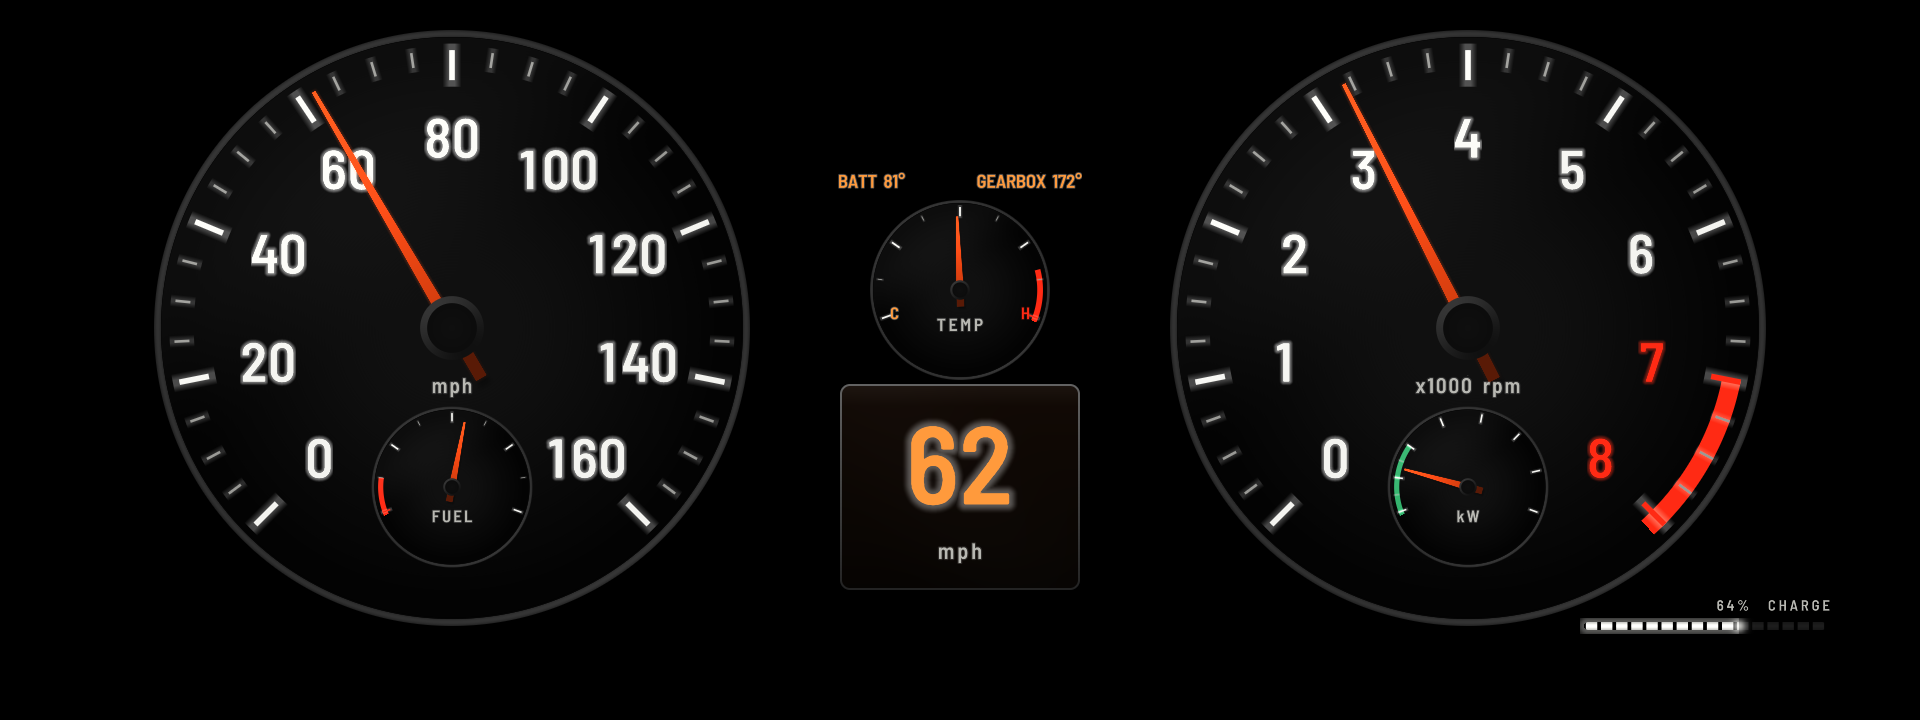
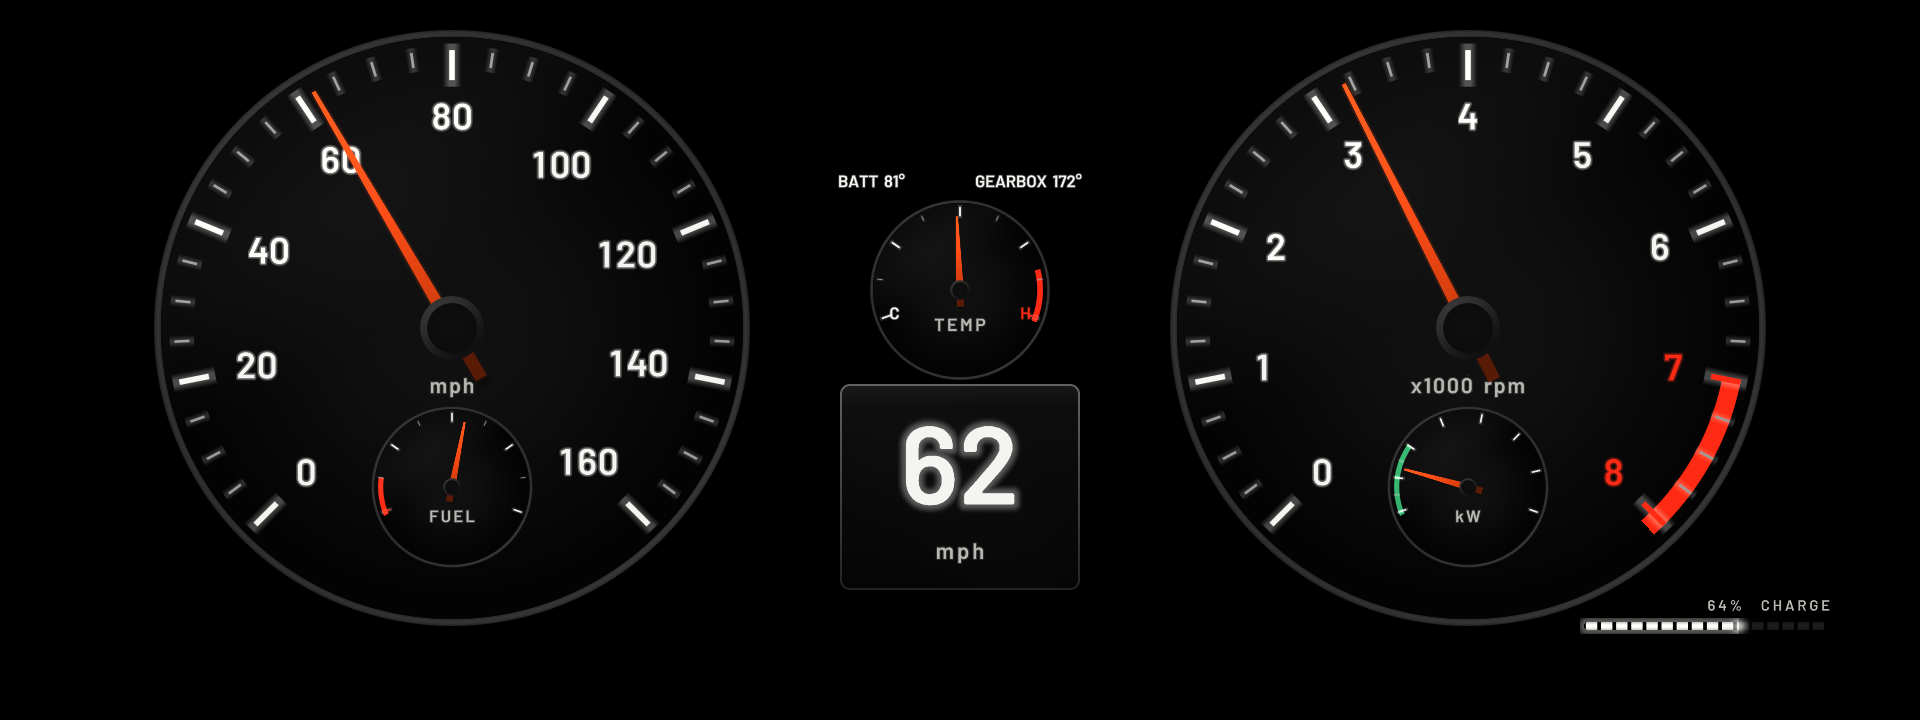
Layouts 0.56.0, Centre 0.14.14: 90's by day and night, blue needles in Efficient
- 90's: with Colours on Auto it follows the car's light sensor, not the drive mode: by day its white look
  (every word in it white too), by night the orange one; a colour set stays as set.
- data.js: day or night from Vehicle.statusDayNightChangeOver (name or number; unchanged and invalid keep
  what was), for an app that asks (opts.dayNight: Cluster Layouts).
- 20's and ID6 M: the needles in Efficient colours in its blue.
- Sport and Sport+ stay one look (themes.js lookNow).
- tools/test_daynight.js, in the workflow's list.

Claude-Session: https://claude.ai/code/session_01QXViLhVqF9rtKtBBVyCzXw

diff --git a/tools/test_daynight.js b/tools/test_daynight.js
@@ -1,0 +1,61 @@
+'use strict';
+/**
+ * test_daynight.js - day and night from the car's light sensor (data.js: Vehicle.statusDayNightChangeOver, by name or
+ * number; "unchanged" and "invalid" keep what was) and 90's, lit by them (layout_retro.js dayNight: day its white
+ * look, every word in it white; night its orange one).
+ *   node tools/test_daynight.js
+ */
+const assert = require('assert');
+const fs = require('fs');
+const os = require('os');
+const path = require('path');
+process.env.CLUSTER_INFO_DIR = fs.mkdtempSync(path.join(os.tmpdir(), 'daynight-'));
+require('./scene');   // maps ./kit/ to the kit's runtime
+
+let ok = 0;
+const check = (name, fn) => { fn(); ok++; console.log('ok   ' + name); };
+
+const spec = JSON.parse(fs.readFileSync(path.join(__dirname, '..', 'apps', 'akakingj_cluster_layouts', 'app.json'), 'utf8'));
+const handlers = {};
+const ctx = {
+    log: { info() {}, warn() {}, debug() {} }, spec,
+    settings: { get: () => undefined },
+    signals: { watch: (i, n, h) => { Object.assign(handlers, h); return Promise.resolve({}); }, proxy: () => Promise.reject(new Error('no link (test)')) },
+};
+const { startData } = require(path.join(__dirname, '..', 'shared', 'data'));
+const D = startData(ctx, { shown: () => true, dayNight: true });
+try {
+    check('no word from the light sensor yet: neither', () => assert.strictEqual(D.data().night, undefined));
+    check('NACHT: night; TAG: day', () => {
+        handlers.statusDayNightChangeOver({ dayNightChangeOver: 'NACHT' });
+        assert.strictEqual(D.data().night, true);
+        handlers.statusDayNightChangeOver({ dayNightChangeOver: 'TAG' });
+        assert.strictEqual(D.data().night, false);
+    });
+    check('as numbers too (2 night, 1 day); unchanged (0) and invalid (3) keep what was', () => {
+        handlers.statusDayNightChangeOver({ dayNightChangeOver: 2 });
+        assert.strictEqual(D.data().night, true);
+        handlers.statusDayNightChangeOver({ dayNightChangeOver: 0 });
+        handlers.statusDayNightChangeOver({ dayNightChangeOver: 3 });
+        handlers.statusDayNightChangeOver({ dayNightChangeOver: 'KEINE_AENDERUNG' });
+        assert.strictEqual(D.data().night, true);
+        handlers.statusDayNightChangeOver({ dayNightChangeOver: 1 });
+        assert.strictEqual(D.data().night, false);
+    });
+} finally { if (D.stop) D.stop(); }
+
+check("90's is lit by day and night: day white, its words too; night orange", () => {
+    const R = require(path.join(__dirname, '..', 'apps', 'akakingj_cluster_layouts', 'layout_retro'));
+    assert.strictEqual(R.dayNight, true);
+    const day = R.palette('efficient'), night = R.palette('comfort');
+    ['tick', 'num', 'text'].forEach((k) => assert.strictEqual(day[k], '#f4f4f0', 'day ' + k));
+    assert.strictEqual(night.text, '#ff9a3c');
+});
+check("20's and ID6 M in Efficient: the needles in its blue", () => {
+    const A = require(path.join(__dirname, '..', 'apps', 'akakingj_cluster_layouts', 'layout_analog_sport'));
+    const I = require(path.join(__dirname, '..', 'apps', 'akakingj_cluster_layouts', 'layout_id6m'));
+    assert.strictEqual(A.palette('efficient').needle, A.palette('efficient').accent);
+    assert.strictEqual(I.palette('efficient').needle, I.palette('efficient').accent);
+});
+console.log(ok + ' passed');
+process.exit(0);

diff --git a/apps/akakingj_cluster_centre/data.js b/apps/akakingj_cluster_centre/data.js
@@ -394,13 +394,21 @@ function startData(ctx, opts) {
         statusTyreTemperature: tyreRead('tyreT', tyreC, 'Temperature'),
     }, 'tyres', { pollMs: 10000 });
     // the car's pressure unit: the tyre pressures and the sport display's boost come in it (every app: the boost)
-    watch('de.bmw.infotainment.vehicle.Vehicle', {
+    watch('de.bmw.infotainment.vehicle.Vehicle', Object.assign({
         statusNewCurrentUnitsStatusExt: (v) => {
             const u = one(v, 'unitOfMeasurementAirPressure'), n = u && typeof u === 'object' ? (u.name || u.value) : u;
             const p = PRESS_UNITS[n] || (/BAR|KPA|PSI/.test(String(n)) ? String(n).match(/BAR|KPA|PSI/)[0] : null);
             if (p && p !== carPress) { carPress = p; log.info('car pressure unit: ' + p); }
         },
-    }, 'units', { pollMs: 60000 });
+    }, opts && opts.dayNight ? {
+        // day or night (the car's light sensor: 1 day, 2 night, 0 unchanged, 3 invalid; by name or number), for an app
+        // that asks (opts.dayNight: Cluster Layouts, 90's colours)
+        statusDayNightChangeOver: (v) => {
+            const c = one(v, 'dayNightChangeOver'), n = c && typeof c === 'object' ? (c.name || c.value) : c;
+            const k = typeof n === 'string' ? ({ TAG: 1, NACHT: 2 })[n] : n;
+            if (k === 1 || k === 2) x.night = k === 2;
+        },
+    } : {}), 'units' + (opts && opts.dayNight ? ', day / night' : ''), { pollMs: 60000 });
     watch('de.bmw.infotainment.KombiIF', {
         statusRangeTankStatus: (v) => { fes('statusRangeTankStatus')(v); pickRanges(v); odometer(v); },
         // the trip computer (0.45.0): trip 1's average fuel economy, tenths, in the unit the car's trip computer
@@ -640,7 +648,7 @@ function startData(ctx, opts) {
                 if (isNum(p.kw) && isNum(p.kwAt) && p.kwAt !== lastKwAt) { lastKwAt = p.kwAt; fuse.measure(p.kwAt - 100, p.kw); }
             }
             const fz = !d.demo && fastKw() ? fuse.now(tNow) : null;
-            const o = Object.assign({}, d, { mode: x.mode, soc: isNum(p.soc) ? p.soc : !d.demo && fresh('socSme', 60000) ? x.socSme : undefined,
+            const o = Object.assign({}, d, { mode: x.mode, night: x.night, soc: isNum(p.soc) ? p.soc : !d.demo && fresh('socSme', 60000) ? x.socSme : undefined,
                 kw: fz ? fz.kw : isNum(p.kw) ? p.kw : undefined, kwRead: isNum(p.kw) ? p.kw : undefined, kwFused: !!(fz && fz.fused), kwModel: fz && fz.model ? fz.model : undefined, kwOut: endsOf(p).out || undefined, kwIn: kwEnds.in || undefined, driveMode: x.driveMode,
                 erange: isNum(p.erange) && rangeOk(p.erange, true) ? p.erange : fresh('carErange', 120000) ? x.carErange : undefined,
                 frange: isNum(p.frange) && rangeOk(p.frange) ? p.frange : fresh('carFrange', 120000) ? x.carFrange : undefined,

diff --git a/apps/akakingj_cluster_layouts/data.js b/apps/akakingj_cluster_layouts/data.js
@@ -394,13 +394,21 @@ function startData(ctx, opts) {
         statusTyreTemperature: tyreRead('tyreT', tyreC, 'Temperature'),
     }, 'tyres', { pollMs: 10000 });
     // the car's pressure unit: the tyre pressures and the sport display's boost come in it (every app: the boost)
-    watch('de.bmw.infotainment.vehicle.Vehicle', {
+    watch('de.bmw.infotainment.vehicle.Vehicle', Object.assign({
         statusNewCurrentUnitsStatusExt: (v) => {
             const u = one(v, 'unitOfMeasurementAirPressure'), n = u && typeof u === 'object' ? (u.name || u.value) : u;
             const p = PRESS_UNITS[n] || (/BAR|KPA|PSI/.test(String(n)) ? String(n).match(/BAR|KPA|PSI/)[0] : null);
             if (p && p !== carPress) { carPress = p; log.info('car pressure unit: ' + p); }
         },
-    }, 'units', { pollMs: 60000 });
+    }, opts && opts.dayNight ? {
+        // day or night (the car's light sensor: 1 day, 2 night, 0 unchanged, 3 invalid; by name or number), for an app
+        // that asks (opts.dayNight: Cluster Layouts, 90's colours)
+        statusDayNightChangeOver: (v) => {
+            const c = one(v, 'dayNightChangeOver'), n = c && typeof c === 'object' ? (c.name || c.value) : c;
+            const k = typeof n === 'string' ? ({ TAG: 1, NACHT: 2 })[n] : n;
+            if (k === 1 || k === 2) x.night = k === 2;
+        },
+    } : {}), 'units' + (opts && opts.dayNight ? ', day / night' : ''), { pollMs: 60000 });
     watch('de.bmw.infotainment.KombiIF', {
         statusRangeTankStatus: (v) => { fes('statusRangeTankStatus')(v); pickRanges(v); odometer(v); },
         // the trip computer (0.45.0): trip 1's average fuel economy, tenths, in the unit the car's trip computer
@@ -640,7 +648,7 @@ function startData(ctx, opts) {
                 if (isNum(p.kw) && isNum(p.kwAt) && p.kwAt !== lastKwAt) { lastKwAt = p.kwAt; fuse.measure(p.kwAt - 100, p.kw); }
             }
             const fz = !d.demo && fastKw() ? fuse.now(tNow) : null;
-            const o = Object.assign({}, d, { mode: x.mode, soc: isNum(p.soc) ? p.soc : !d.demo && fresh('socSme', 60000) ? x.socSme : undefined,
+            const o = Object.assign({}, d, { mode: x.mode, night: x.night, soc: isNum(p.soc) ? p.soc : !d.demo && fresh('socSme', 60000) ? x.socSme : undefined,
                 kw: fz ? fz.kw : isNum(p.kw) ? p.kw : undefined, kwRead: isNum(p.kw) ? p.kw : undefined, kwFused: !!(fz && fz.fused), kwModel: fz && fz.model ? fz.model : undefined, kwOut: endsOf(p).out || undefined, kwIn: kwEnds.in || undefined, driveMode: x.driveMode,
                 erange: isNum(p.erange) && rangeOk(p.erange, true) ? p.erange : fresh('carErange', 120000) ? x.carErange : undefined,
                 frange: isNum(p.frange) && rangeOk(p.frange) ? p.frange : fresh('carFrange', 120000) ? x.carFrange : undefined,

diff --git a/shared/data.js b/shared/data.js
@@ -394,13 +394,21 @@ function startData(ctx, opts) {
         statusTyreTemperature: tyreRead('tyreT', tyreC, 'Temperature'),
     }, 'tyres', { pollMs: 10000 });
     // the car's pressure unit: the tyre pressures and the sport display's boost come in it (every app: the boost)
-    watch('de.bmw.infotainment.vehicle.Vehicle', {
+    watch('de.bmw.infotainment.vehicle.Vehicle', Object.assign({
         statusNewCurrentUnitsStatusExt: (v) => {
             const u = one(v, 'unitOfMeasurementAirPressure'), n = u && typeof u === 'object' ? (u.name || u.value) : u;
             const p = PRESS_UNITS[n] || (/BAR|KPA|PSI/.test(String(n)) ? String(n).match(/BAR|KPA|PSI/)[0] : null);
             if (p && p !== carPress) { carPress = p; log.info('car pressure unit: ' + p); }
         },
-    }, 'units', { pollMs: 60000 });
+    }, opts && opts.dayNight ? {
+        // day or night (the car's light sensor: 1 day, 2 night, 0 unchanged, 3 invalid; by name or number), for an app
+        // that asks (opts.dayNight: Cluster Layouts, 90's colours)
+        statusDayNightChangeOver: (v) => {
+            const c = one(v, 'dayNightChangeOver'), n = c && typeof c === 'object' ? (c.name || c.value) : c;
+            const k = typeof n === 'string' ? ({ TAG: 1, NACHT: 2 })[n] : n;
+            if (k === 1 || k === 2) x.night = k === 2;
+        },
+    } : {}), 'units' + (opts && opts.dayNight ? ', day / night' : ''), { pollMs: 60000 });
     watch('de.bmw.infotainment.KombiIF', {
         statusRangeTankStatus: (v) => { fes('statusRangeTankStatus')(v); pickRanges(v); odometer(v); },
         // the trip computer (0.45.0): trip 1's average fuel economy, tenths, in the unit the car's trip computer
@@ -640,7 +648,7 @@ function startData(ctx, opts) {
                 if (isNum(p.kw) && isNum(p.kwAt) && p.kwAt !== lastKwAt) { lastKwAt = p.kwAt; fuse.measure(p.kwAt - 100, p.kw); }
             }
             const fz = !d.demo && fastKw() ? fuse.now(tNow) : null;
-            const o = Object.assign({}, d, { mode: x.mode, soc: isNum(p.soc) ? p.soc : !d.demo && fresh('socSme', 60000) ? x.socSme : undefined,
+            const o = Object.assign({}, d, { mode: x.mode, night: x.night, soc: isNum(p.soc) ? p.soc : !d.demo && fresh('socSme', 60000) ? x.socSme : undefined,
                 kw: fz ? fz.kw : isNum(p.kw) ? p.kw : undefined, kwRead: isNum(p.kw) ? p.kw : undefined, kwFused: !!(fz && fz.fused), kwModel: fz && fz.model ? fz.model : undefined, kwOut: endsOf(p).out || undefined, kwIn: kwEnds.in || undefined, driveMode: x.driveMode,
                 erange: isNum(p.erange) && rangeOk(p.erange, true) ? p.erange : fresh('carErange', 120000) ? x.carErange : undefined,
                 frange: isNum(p.frange) && rangeOk(p.frange) ? p.frange : fresh('carFrange', 120000) ? x.carFrange : undefined,

diff --git a/apps/akakingj_cluster_layouts/main.js b/apps/akakingj_cluster_layouts/main.js
@@ -84,7 +84,7 @@ mgu.run({
         const showing = () => settings.get('show') === 'on';
         // every reading (data.js, shared with Cluster Centre): the car's signals, the engine unit over UDS for
         // what a layout needs (layout.needs), eDrive Live's charge and power while shown
-        const D = startData(ctx, { shown: showing, tyres: true });
+        const D = startData(ctx, { shown: showing, tyres: true, dayNight: true });
         const car = D.car;
         // the driving assistant (dap.js): none of its services is subscribed (0.36.7); the cruise
         // control's set speed comes from the head-up display (data.js cruise); dap.js stays for the previews' sample (DAP_DEMO) and later use
@@ -133,7 +133,9 @@ mgu.run({
         /* the colours now: the layout's palette for the look, as designed (Settings > Background: Pure black, which hid
          * the KOMBI's dark box in the full-screen form, went with it in 0.34.0: over the car's strip there is no box) */
         const themeNow = () => layout.palette(look());
-        const look = () => lookNow(settings.get('look'), data());
+        // (a layout lit by day and by night, 90's: with Auto colours its look follows the car's light sensor, not the
+        // drive mode - day its white one, night its orange; a set colour stays as set)
+        const look = () => (layout.dayNight && settings.get('look') === 'auto' ? (data().night ? 'comfort' : 'efficient') : lookNow(settings.get('look'), data()));
         /* the renderer target: the panel (slot 0x203), where the HMI's own cluster screen goes down and the
          * KOMBI shows its fallback gear box */
         const start = () => startCluster({

diff --git a/apps/akakingj_cluster_layouts/layout_id6m.js b/apps/akakingj_cluster_layouts/layout_id6m.js
@@ -14,7 +14,7 @@ const C = require('./layout_common');
 const PALETTES = {
     comfort: { bg: '#000000', face: '#1d1e21', ring: '#f2f3f4', tick: '#ffffff', needle: '#ff4a1c', amber: '#ffb01a', red: '#ff2a1a', text: '#ffffff', dim: '#9ca0a6', glow: '#ffffff', accent: '#ff4a1c', track: '#1a1b1d', ev: '#4ab4ff', num: '#ffffff', lcdTop: '#17181b', lcdBottom: '#0a0a0c', lcdEdge: '#4b4e54' },
     sport: { bg: '#000000', face: '#1f1d1e', ring: '#f4f2f2', tick: '#ffffff', needle: '#ff2a14', amber: '#ffa014', red: '#ff1a10', text: '#ffffff', dim: '#a49c9c', glow: '#ff6a4a', accent: '#ff2a14', track: '#1d1819', ev: '#4ab4ff', num: '#ffffff', lcdTop: '#17181b', lcdBottom: '#0a0a0c', lcdEdge: '#4b4e54' },
-    efficient: { bg: '#000000', face: '#1b1e21', ring: '#e8f0f6', tick: '#f2f8ff', needle: '#ff6a1c', amber: '#ffb01a', red: '#ff2a1a', text: '#f2f8ff', dim: '#98a4ae', glow: '#6ab8ff', accent: '#3aa0ff', track: '#151a1e', ev: '#4ab4ff', num: '#ffffff', lcdTop: '#17181b', lcdBottom: '#0a0a0c', lcdEdge: '#4b4e54' },
+    efficient: { bg: '#000000', face: '#1b1e21', ring: '#e8f0f6', tick: '#f2f8ff', needle: '#3aa0ff', amber: '#ffb01a', red: '#ff2a1a', text: '#f2f8ff', dim: '#98a4ae', glow: '#6ab8ff', accent: '#3aa0ff', track: '#151a1e', ev: '#4ab4ff', num: '#ffffff', lcdTop: '#17181b', lcdBottom: '#0a0a0c', lcdEdge: '#4b4e54' },
 };
 const roundColours = (t) => ({ face: t.face, ring: t.ring, tick: t.tick, needle: t.needle, amber: t.amber, red: t.red });
 const white = (t) => ({ color: [t.text, 1], glow: [t.glow, 0.12] });

diff --git a/apps/akakingj_cluster_layouts/layout_retro.js b/apps/akakingj_cluster_layouts/layout_retro.js
@@ -24,11 +24,11 @@ const PALETTES = {
         lcdTop: '#130805', lcdBottom: '#070302', lcdEdge: '#432015', text: '#ff6e3c', dim: '#c77a62', track: '#200e0a', ev: '#ff8d6a',
         mode: 'SPORT',
     },
-    // the daytime look: white markings, the orange needles kept
+    // the daytime look: white markings and words, the orange needles kept
     efficient: {
         bg: '#000000', face0: '#101010', face1: '#040404', bezel: '#3a3a3a', bezel2: '#0b0b0b', tick: '#f4f4f0', minor: '#9a9a96',
         num: '#f4f4f0', glow: '#ffffff', red: '#ff2a14', needle: '#ff4a12', hub: '#0b0b0b', accent: '#ff6a10',
-        lcdTop: '#120a05', lcdBottom: '#070402', lcdEdge: '#3a3a3a', text: '#ff9a3c', dim: '#b8b8b2', track: '#1a1a1a', ev: '#f4f4f0',
+        lcdTop: '#0e0e0e', lcdBottom: '#050505', lcdEdge: '#3a3a3a', text: '#f4f4f0', dim: '#b8b8b2', track: '#1a1a1a', ev: '#f4f4f0',
         mode: 'EFFICIENT',
     },
 };
@@ -108,6 +108,8 @@ module.exports = {
     id: 'retro',
     title: "90's",
     palette: (lookId) => PALETTES[lookId] || PALETTES.comfort,
+    // lit by day and by night, not by the drive mode (main.js look, Auto colours): day white (efficient), night orange (comfort)
+    dayNight: true,
     gearText: C.gearText,
     stripFuel: false,   // (its speedometer has a fuel gauge)
     // its own places, set on the page (layouts.js placesFor)

diff --git a/apps/akakingj_cluster_layouts/layout_analog_sport.js b/apps/akakingj_cluster_layouts/layout_analog_sport.js
@@ -25,7 +25,7 @@ const PALETTES = {
     },
     efficient: {
         bg: '#000000', face0: '#0f1316', face1: '#030405', bezel: '#e8eef2', bezel2: '#454d53', tick: '#f2f9ff', minor: '#8fa0ab',
-        num: '#eef7ff', glow: '#6ab8ff', red: '#f0301c', needle: '#f2f8ff', hub: '#191c1f', accent: '#3aa0ff',
+        num: '#eef7ff', glow: '#6ab8ff', red: '#f0301c', needle: '#3aa0ff', hub: '#191c1f', accent: '#3aa0ff',
         lcdTop: '#090c0e', lcdBottom: '#030405', lcdEdge: '#33404a', text: '#e6f3ff', dim: '#97a6b0', track: '#111a20', ev: '#4ab4ff',
     },
 };

diff --git a/apps/akakingj_cluster_layouts/README.md b/apps/akakingj_cluster_layouts/README.md
@@ -127,15 +127,16 @@ A tribute to the round-dial clusters of the 1980s and 90s: matte black faces wit
 and ticks lit orange the way those clusters glowed at night, long slim red-orange needles over black hub caps.
 A fuel gauge is set into the speedometer (the reserve in red), an economy gauge into the tach (the battery's
 power on a plug-in hybrid, 0 a quarter round, recuperation below it in green; boost with Vehicle: ICE), a small coolant gauge sits
-between the dials over an amber LCD with the speed. With the engine off the tach's legend reads the battery's power. Comfort colours
-are the classic orange, Sport a deeper red-orange, Efficient white daytime markings. An original design: no
-maker's marks or names.
+between the dials over an amber LCD with the speed. With the engine off the tach's legend reads the battery's power. With
+Colours on Auto it is lit by the car's light sensor, not by the drive mode: by day white markings and words (Efficient),
+by night the classic orange (Comfort); a colour set in Settings stays as set (Sport: a deeper red-orange). An original
+design: no maker's marks or names.
 
 ![90's](../../docs/retro.png)
 
-| Sport colours | Efficient colours |
+| By day | Sport colours (set) |
 |---|---|
-| ![](../../docs/retro_sport.png) | ![](../../docs/retro_efficient.png) |
+| ![](../../docs/retro_efficient.png) | ![](../../docs/retro_sport.png) |
 | **Map in the centre** | |
 | ![](../../docs/retro_map.png) | |
 
@@ -143,7 +144,7 @@ maker's marks or names.
 
 A classic sports-saloon pair of round dials, after the look of the 2010s' analog clusters (an original drawing, no
 maker's marks): black faces with crisp white markings and numerals, bright chrome rings, slim white needles over dark
-hubs and a short red zone on the tach (km/h to 260, numbered every 20). A small coolant gauge is set into the tach's
+hubs (blue in Efficient colours) and a short red zone on the tach (km/h to 260, numbered every 20). A small coolant gauge is set into the tach's
 foot, and two small satellite gauges are tucked against the dials' outer edges: the fuel by the speedometer, the oil by
 the tach (Settings > Speedometer gauge / Tach gauge, or the page, put another reading in either; with another
 reading by the speedometer the strip's fuel bar comes back). A slim display between the dials shows the time and
@@ -195,7 +196,7 @@ regeneration. An original drawing.
 
 Round dials after the M cars' analog clusters of the mid 2010s, an original drawing (the M tricolour, no lettering):
 two big dials, each with a thin white ring round its top, open at the bottom, a dark band with white marks and large
-numerals, a darker disc in the middle and a long red-orange needle; the tach's shift lights along the outside of its
+numerals, a darker disc in the middle and a long red-orange needle (blue in Efficient colours); the tach's shift lights along the outside of its
 top end, amber from Settings > Yellow light at (Auto: 700 rpm under the red) and red from the red zone (Red
 light at; lower while the oil is cold); the gear under the tach in a white arc; the speed in figures with its unit at the bottom of the middle, between the dials; no
 readouts beside the dials (the car's strip shows the time, temperature and ranges); a small fuel gauge (0, 1/2, 1) left of the

diff --git a/PERSONAL.md b/PERSONAL.md
@@ -324,6 +324,10 @@ the car, then moved to `main` (in the fork they were `personal-kr` / `personal-k
   at y 360 so their rings clear the cowl's corners (tools/clearance.js: rmdial round at u_c). Centre and Info: the
   Korean for Retro M's place (kit locales), and Centre's shared font list. Every layout's name in English in Korean
   too (Simple, Track: they were 간단, 트랙), as the owner asked.
+- Layouts 0.56.0, Centre 0.14.14 (Nov 24 2026): 90's lit by the car's light sensor, not the drive mode (with Colours
+  on Auto: day white, every word in it too; night orange; data.js night from Vehicle.statusDayNightChangeOver, for an
+  app that asks: opts.dayNight); 20's and ID6 M in Efficient colours with blue needles. Sport and Sport+ stay one look
+  (themes.js lookNow: /SPORT/). tools/test_daynight.js.
 - Layouts 0.55.4, Centre 0.14.13 (Nov 24 2026): Retro M's speedometer needle passes over its window and
   the unit above it (the needle again in a layer of its own there, RMDIAL_FS u_look.w); Centre's preview, drawn on the
   CPU, again 4 times a second (once a second under Settings) instead of every frame of the page (up to 60 a second on
